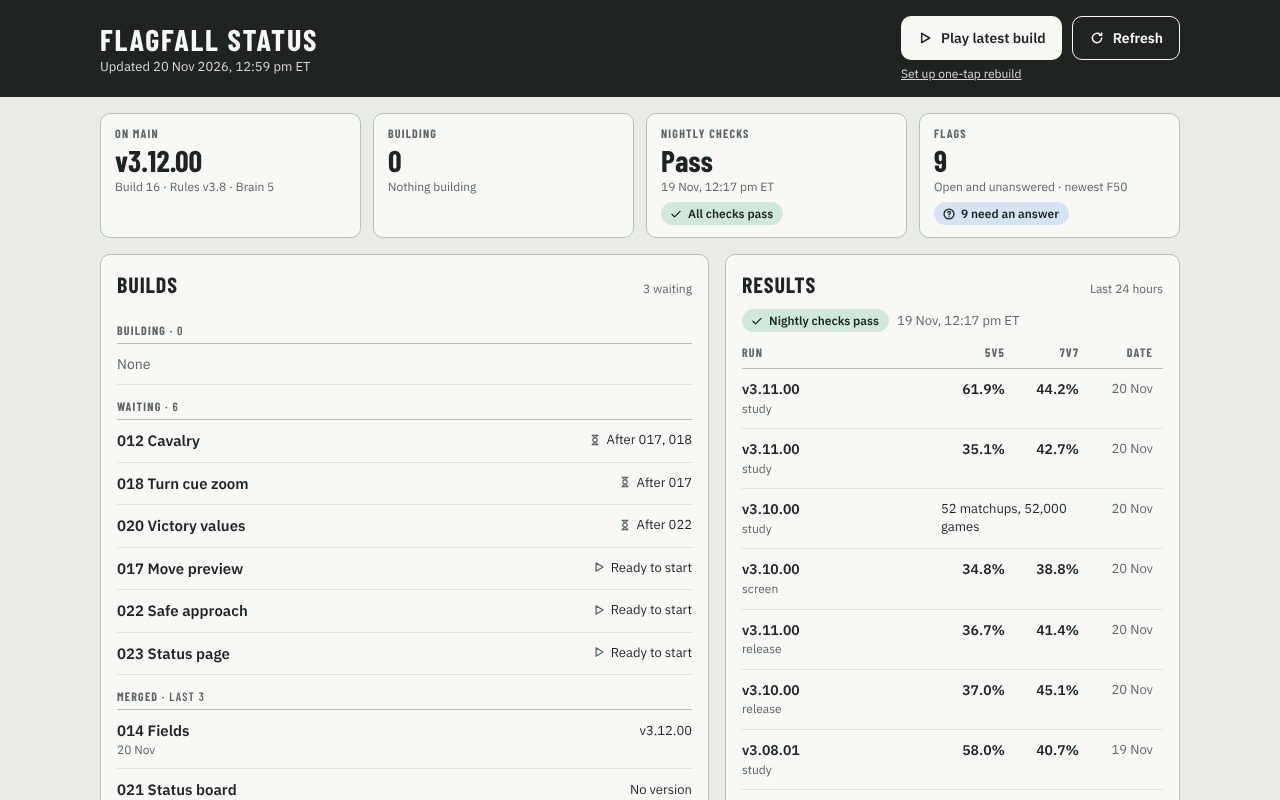
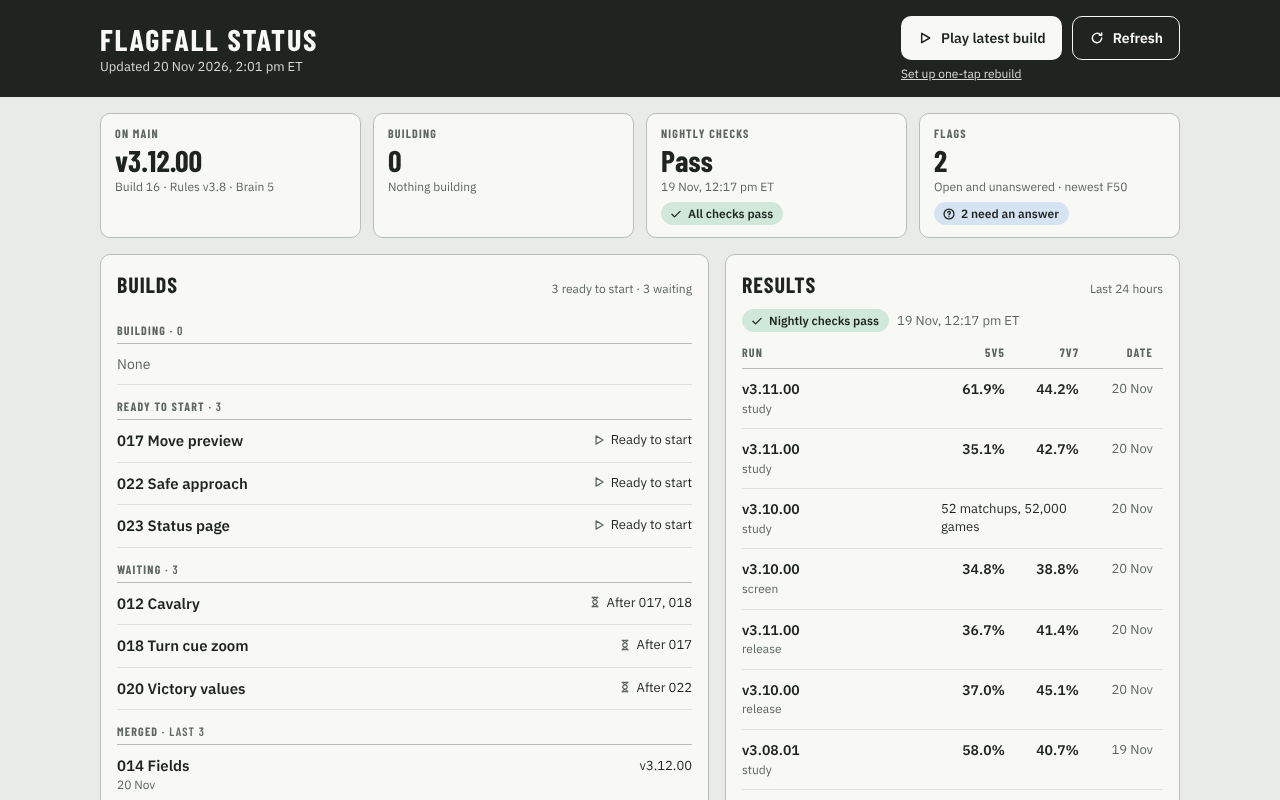
Brief 023: screenshots after the follow-ups
Claude-Session: https://claude.ai/code/session_01NQibGXm6jvMeokjSQqHx3R

diff --git a/briefs/023-status-page.md b/briefs/023-status-page.md
@@ -109,7 +109,7 @@ The standard items, plus: where the 5v5 and 7v7 numbers come from and which runs
 - **The Editor's follow-ups (20 Nov):** Flags rows follow the Editor's design on every width (name and date, status pill, then the issue on its own full-width line, two lines). Each row is a `details`/`summary`, so a tap, a click or the keyboard opens the whole issue and its "Resolved in / next step" text; the page remembers open rows across its 5-minute redraws. `board.json` carries `issueFull` and `next` for the flags shown. The set-up panel asks for a 90-day key. (5) The Results footer adds "N more ran in the last 24 hours" when more than 8 did.
 - **Anything in the mock I couldn't match:** none on screen. The browser draws the "…" at the end of a clamped issue (none is added by hand). The Flags table no longer exists: the Editor replaced it with the row design (F023-3).
 - **Checks run and results:** `node sims/status/test_board.js`: all pass (the 2 Brief 021 checks that tested the old plain page were replaced). New: conflict reads Needs sync; behind only by `results/`/`studies/` does not; mark order (Broken > Needs sync > On hold > Ready to merge > Review > Running); `review: hold` reads On hold; failed checks read Broken; two shares when the run has them, the fallback when it doesn't; issue carried to ~300 characters; `BOARD.md` under 4 KB; text from the repository is escaped. Follow-ups: the whole issue and next step carried; each flag row a `details`/`summary` with preview, whole issue and next step; an open row stays open on redraw; Ready to start sits between Building and Waiting and ready briefs leave Waiting; the panel says 90 days. `test_page.js` (run by `test_board.js`, the page's own script in a sandbox with a fake fetch and clock): no key in the page source or `board.json`; Refresh without a key makes no workflow call; with a key one dispatch call per tap; 10-second checks; "Still building. Try again in a minute." after 3 minutes; a wrong key says so and re-reads without it; an older board is never drawn. Also tried in Chromium: Refresh without a key only reads; Save keeps the key in local storage only; with a key one POST to the dispatch endpoint. **Skipped:** the engine checks, `regress_engine.js` and simulations: nothing in `board/`, `sims/lab/`, `results/` or `studies/` changed, so no hashes to compare.
-- **Screenshots** (from the real board as of 20 Nov, 12:59 pm ET, built locally from the repository with the live pull-request list): phone [top](img/023-report-real-390-top.png), [bottom](img/023-report-real-390-bottom.png); [computer](img/023-report-real-1280.png); [fixture with every mark](img/023-report-fixture-1280-full.png) (six builds: Review, Building, Needs sync, Broken, Ready to merge, On hold; failed nightly; a stale chat).
+- **Screenshots** (from the real board as of 20 Nov, 12:59 pm ET, built locally from the repository with the live pull-request list): phone [top](img/023-report-real-390-top.png), [bottom](img/023-report-real-390-bottom.png); [computer](img/023-report-real-1280.png); [fixture with every mark](img/023-report-fixture-1280-full.png); [a flag row opened on a phone](img/023-report-flags-open-390.png) (six builds: Review, Building, Needs sync, Broken, Ready to merge, On hold; failed nightly; a stale chat).
 - **The live page after one real run:** not seen yet. The workflow always runs `main`'s script, so the new page appears on the first run after this merges. Then: open the page, check the tiles, tap Refresh.
 - **Baseline table (rule changes only):** n/a
 - **Bot minimum (met / not met, with numbers):** n/a
